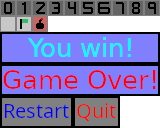
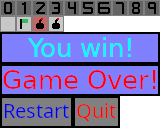
Unexploded bombs are now drawn on game over

Changed region(s): [[0.2812, 0.125, 0.4062, 0.25]]

diff --git a/bsw.c b/bsw.c
@@ -31,6 +31,7 @@ static SDL_Renderer *renderer;
 static SDL_Texture *sprite;
 static struct tile *tiles;
 static int t_width, t_height, n_bombs, n_tiles_left;
+static bool game_over;
 
 /*
  * Get the current time in microseconds.
@@ -297,6 +298,10 @@ draw_tile (const struct tile *t, const SDL_Rect *rect)
         }
         break;
     }
+    if (game_over && t->is_bomb && t->status != TILE_CLICKED) {
+        srect.x = 48;
+        srect.y = 16;
+    }
     srect.w = 16;
     srect.h = 16;
 
@@ -413,7 +418,7 @@ main (int argc, char *argv[])
 {
     useconds_t vsync_rate = 120, vsync_delay;
     useconds_t last_time;
-    bool game_over, vsync = true, show_menu = false;
+    bool vsync = true, show_menu = false;
     int option, w = 10, h = 10, nb = 10;
 
     while ((option = getopt (argc, argv, ":hVr:s:n:")) != -1) {
